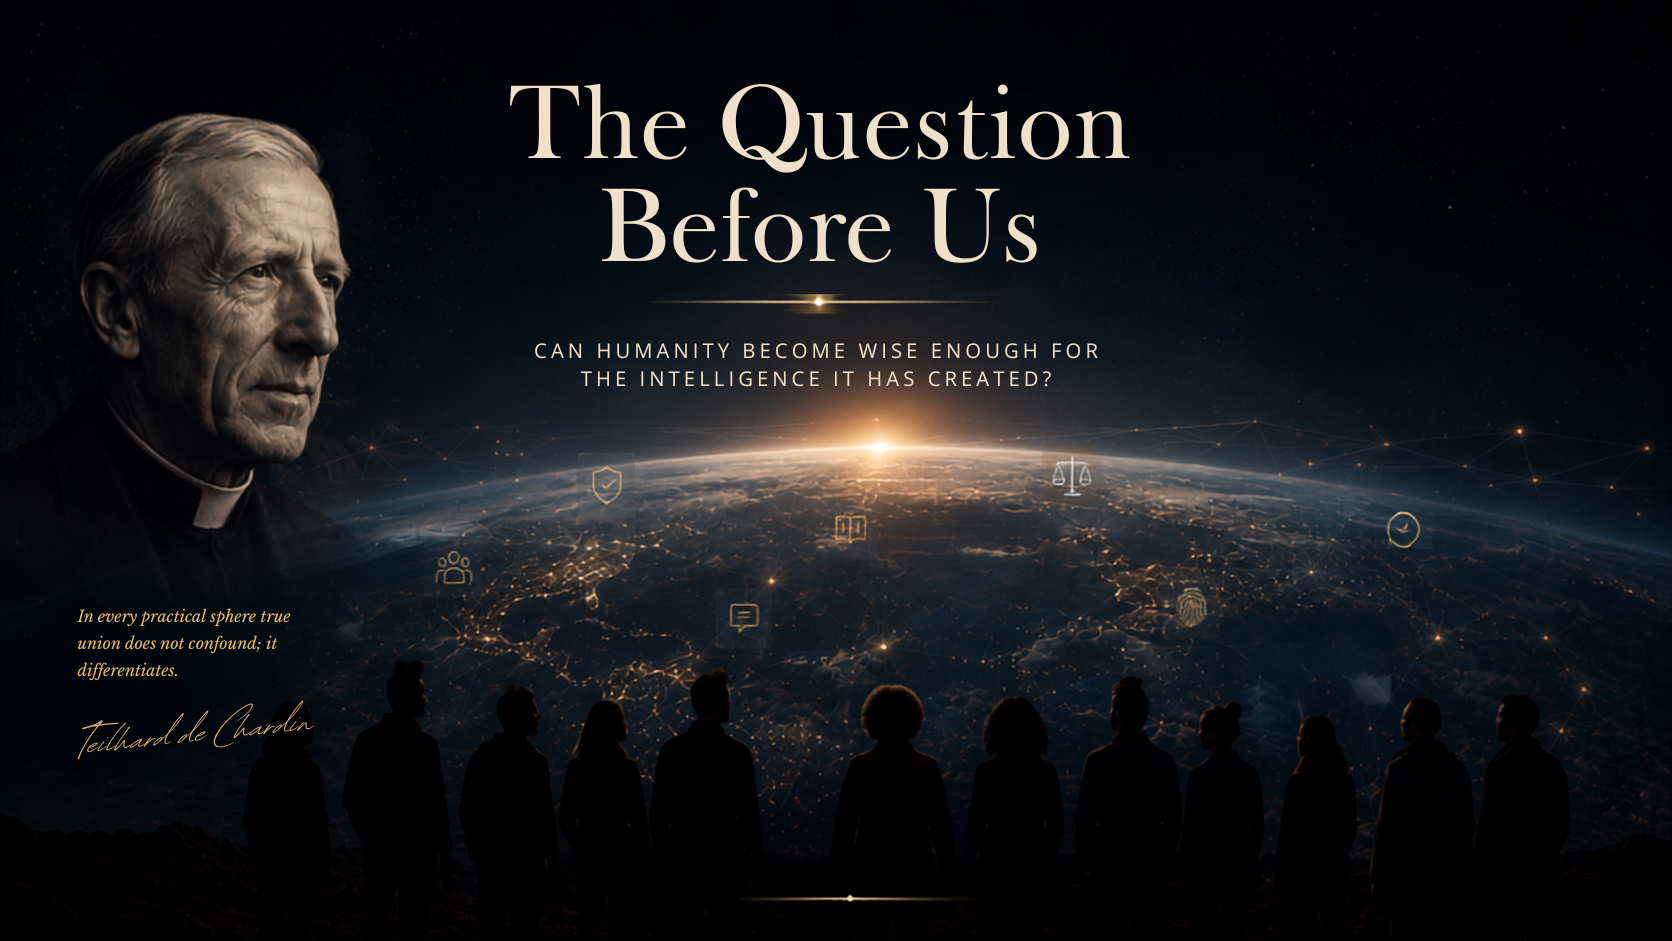
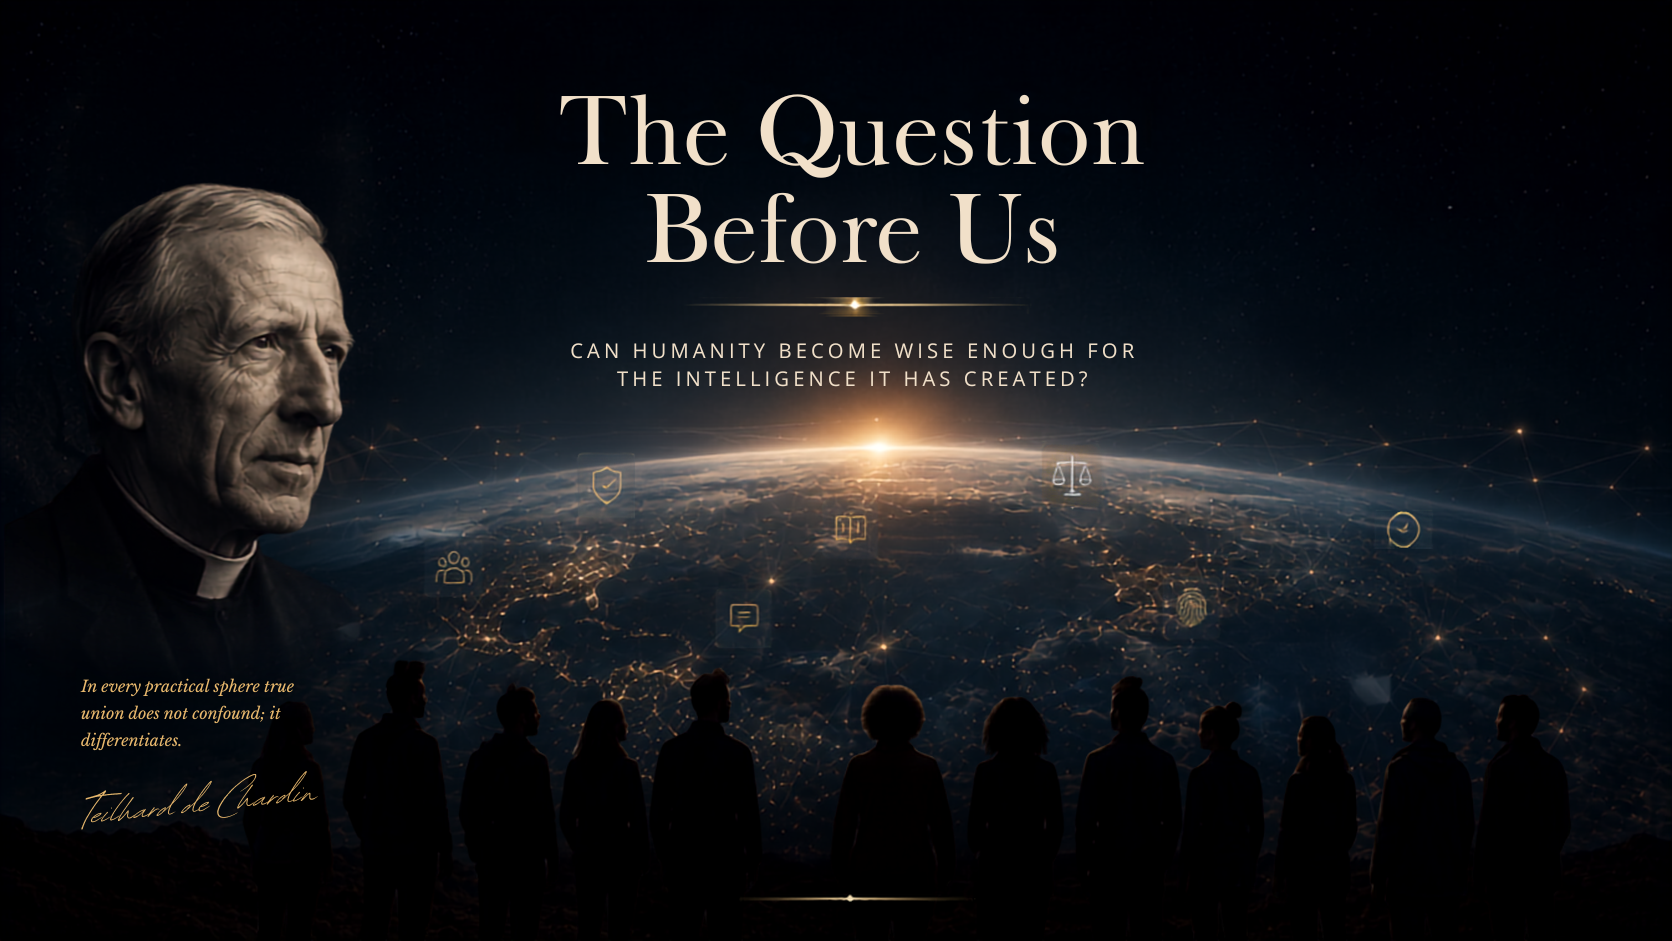
feat(campaign): replace Teilhard hero with The Question Before Us
Swap hero.png from agent drop 755a4341-720a-4462-ad12-0daf5f6f8955; nav-only seed config unchanged.

diff --git a/docs/CAMPAIGN_HERO_CONFIG.md b/docs/CAMPAIGN_HERO_CONFIG.md
@@ -106,7 +106,7 @@ From `static/campaign/teilhard/campaign-seed.json`:
 }
 ```
 
-Hero asset: agent drop UUID `9bf03896-b655-402b-97c9-311ebb8b02d3` → `static/campaign/teilhard/assets/hero.png`.
+Hero asset: agent drop UUID `755a4341-720a-4462-ad12-0daf5f6f8955` → `static/campaign/teilhard/assets/hero.png`.
 
 Document embeds: see [CAMPAIGN_ARTIFACTS_CONFIG.md](CAMPAIGN_ARTIFACTS_CONFIG.md).
 
